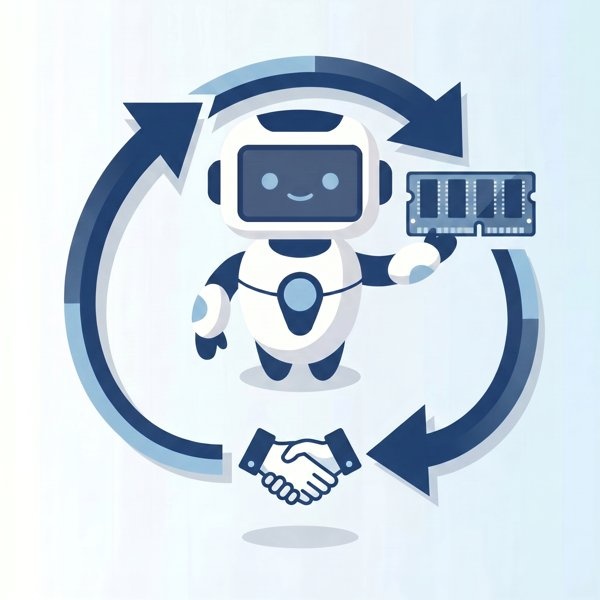
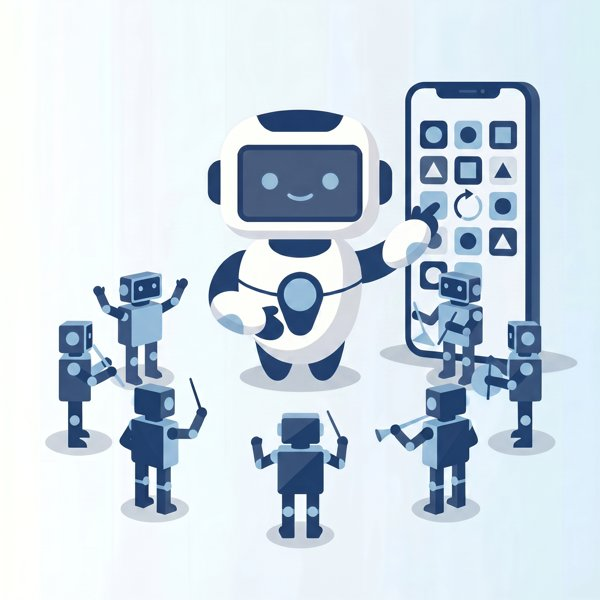
AI Daily Reads: re-curate June 23 to include a paper and a notable discussion (4 must-reads)

Changed region(s): [[0.06, 0.09, 0.96, 0.93], [0.36, 0.42, 0.39, 0.45]]

diff --git a/_pages/ai-daily-reads.md b/_pages/ai-daily-reads.md
@@ -158,7 +158,7 @@ This page is generated automatically by an AI agent. Every evening it reviews th
   <li class="day-card">
     <div class="day-header">
       <span class="day-date">June 23, 2026</span>
-      <span class="day-count">3 must-reads</span>
+      <span class="day-count">4 must-reads</span>
     </div>
 
     <div class="read-item">
@@ -180,11 +180,20 @@ This page is generated automatically by an AI agent. Every evening it reviews th
     </div>
 
     <div class="read-item">
-      <img class="read-thumb" src="{{ '/images/daily-reads/2026-06-23-item3.jpg' | relative_url }}" alt="Robot holding a memory chip inside a circular-arrow loop with a handshake" loading="lazy">
+      <img class="read-thumb" src="{{ '/images/daily-reads/2026-06-23-item3.jpg' | relative_url }}" alt="Robot operating a large smartphone with app icons" loading="lazy">
       <div class="read-content">
-        <div class="read-title">Micron and Anthropic strike a memory-and-investment deal</div>
-        <div class="read-desc">Micron will co-design memory for AI and supply chips to Anthropic, deploy Claude internally, and invest in Anthropic's latest funding round. It is a clear case of the increasingly common circular AI deals, where a supplier invests in a customer that then buys its products, and a window into how tightly hardware and model makers are now bound.</div>
-        <a class="read-link" href="https://www.globenewswire.com/news-release/2026/06/22/3315307/14450/en/micron-and-anthropic-announce-strategic-agreement-to-scale-next-generation-ai-infrastructure.html" target="_blank" rel="noopener">Read the source</a><span class="read-source">globenewswire.com</span>
+        <div class="read-title">A new paper trains open models to actually use phone apps</div>
+        <div class="read-desc">Researchers at Tencent's Hunyuan lab built PhoneBuddy, which trains open models to operate real phone apps by mixing real devices with cheap, resettable mock apps. The combination pushed task success on a real-phone test from about 37 percent to 45 percent, a concrete step toward agents that reliably get things done on your phone.</div>
+        <a class="read-link" href="https://arxiv.org/abs/2606.23049" target="_blank" rel="noopener">Read the source</a><span class="read-source">arxiv.org</span>
+      </div>
+    </div>
+
+    <div class="read-item">
+      <img class="read-thumb" src="{{ '/images/daily-reads/2026-06-23-item4.jpg' | relative_url }}" alt="Robot with a shield and wrench fixing a bug lock icon" loading="lazy">
+      <div class="read-content">
+        <div class="read-title">Sam Altman says OpenAI's new model will fix security holes, not just find them</div>
+        <div class="read-desc">In a widely shared post, the OpenAI CEO announced GPT-5.5-Cyber and tools meant to actually patch vulnerabilities rather than only flag them, framed as helping companies defend themselves. It is a notable signal of where frontier labs are taking AI in security, and lands right as intelligence agencies warn about AI-driven cyber threats.</div>
+        <a class="read-link" href="https://x.com/sama/status/2069121360744550796" target="_blank" rel="noopener">Read the source</a><span class="read-source">x.com</span>
       </div>
     </div>
   </li>